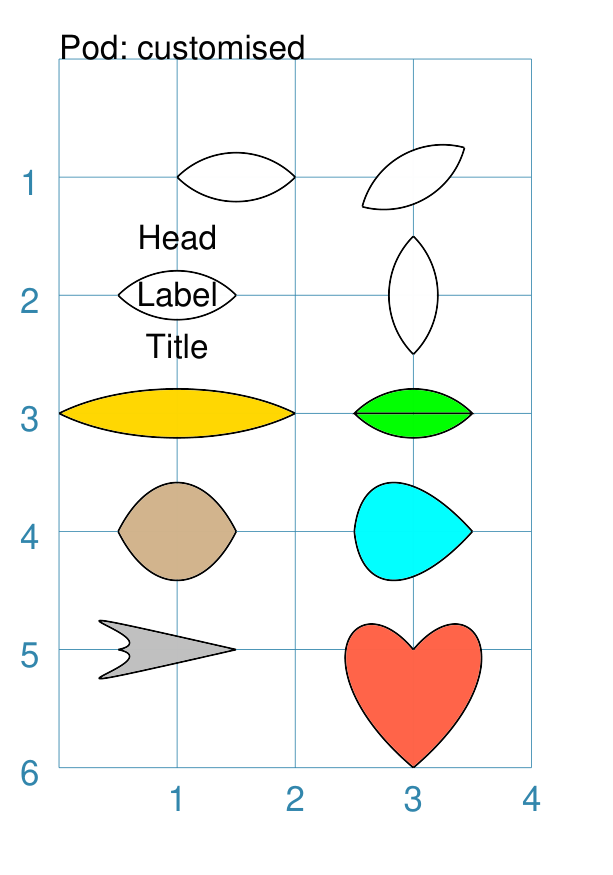
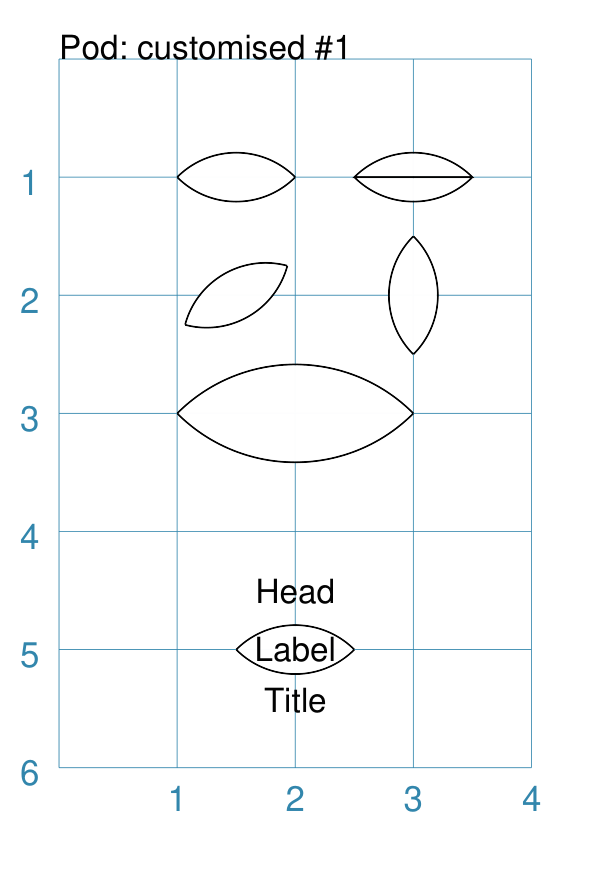
Docs for Pod shape

diff --git a/examples/core/customised_shapes.py b/examples/core/customised_shapes.py
@@ -1309,37 +1309,45 @@ Triangle(
 )
 PageBreak()
 
-
+# ---- pod: custom 1
 Blueprint()
-Text(common=txt, text="Pod: customised")
+Text(common=txt, text="Pod: customised #1")
 Pod()
-Pod(x=2.5, y=1, rotation=30)
-Pod(cx=3, cy=3,
-    fill="lime",
+Pod(cx=3, cy=1,
     center_line=True)
-Pod(cx=1, cy=2,
+Pod(x=1, y=2, rotation=30)
+Pod(cx=3, cy=2, rotation=90)
+Pod(cx=2, cy=3,
+    length=2)
+Pod(cx=2, cy=5,
     heading="Head",
     title="Title",
     label="Label")
-Pod(cx=3, cy=2,
-    rotation=90)
-Pod(cx=1, cy=3,
+PageBreak()
+
+# ---- pod: custom 2
+Blueprint()
+Text(common=txt, text="Pod: customised #2")
+Pod(cx=2, cy=1,
     length=2,
-    fill="gold")
-Pod(cx=1, cy=4,
+    center_line=True,
+    fill="gold",
+    stroke="red",
+    stroke_width=1)
+Pod(cx=1, cy=3,
     dy1=1,
     fill="tan")
-Pod(cx=3, cy=4,
+Pod(cx=3, cy=3,
     dy1=1, dx1=0.1,
     fill="aqua")
-Pod(cx=1, cy=5,
+Pod(cx=1, cy=4.5,
     dy1=0.1,
     dy2=0.5, dx2=-1.2,
     fill="silver")
-Pod(cx=3, cy=5.5,
+Pod(cx=3, cy=4.5,
     dx1=-0.6, dy1=-0.5,
     dx2=0.15, dy2=-1,
-    fill="tomato",
+    fill_stroke="tomato",
     rotation=-90)
 PageBreak()
 
@@ -1393,4 +1401,5 @@ Save(
         "radii_shapes",
         "perbii_shapes",
         "pod_custom",
+        "pod_customised",
         None])

diff --git a/protograf/shapes.py b/protograf/shapes.py
@@ -868,7 +868,7 @@ class PodShape(BaseShape):
         if not self.dx_1:
             self.dx_1 = self.length / 2.0
         if not self.dy_1:
-            self.dy_1 = 0.5
+            self.dy_1 = self.length / 2.0
         # ---- RESET UNIT PROPS (last!)
         self.set_unit_properties()
 

diff --git a/docs/source/core_shapes.rst b/docs/source/core_shapes.rst
@@ -74,9 +74,10 @@ Where possible, the basic examples first show how a shape would appear
 on a page when **only** the default properties are used. This means that,
 for most cases, that *lines* are drawn in **black** and shapes that have an
 enclosed area are *filled* with a **white** color. The default length, width
-or height in most cases is **1cm**. The only change from default, for these
+or height in most cases is **1 cm**. The main change from default, for these
 examples, has been to make the default line width (*stroke_width*) thicker
-for easier viewing of the small PNG images.
+for easier viewing of the small PNG images that have been generated from the
+original PDF output.
 
 Most shapes can be styled by setting one or more of the
 `Shapes Common Properties`_. Other shapes have additional properties
@@ -84,10 +85,8 @@ available that allow even further styling.
 
 To make it easier to see where and how a shape has been drawn, most of these
 examples have been created with a background grid, which **protograf**
-refers to as a `Blueprint`_ shape, added to the page  - a small A8
-"business card" size - for cross-reference. In addition, the default line width
-(aka *stroke_width*) has been made thicker for easier viewing of the small
-PNG images that were generated from the original PDF output.
+refers to as a `Blueprint`_ shape, added to the page |dash| a small A8
+"business card" size |dash| for cross-reference.
 
 .. NOTE::
 
@@ -1240,9 +1239,38 @@ Pod
 ~~~
 `↑ <shape-index_>`_
 
-A pod is a symmetrical shape constructed of two curved lines.
+A pod is a symmetrical shape constructed from two matching curved lines,
+each drawn on either side of a straight centre line.
 
-The following examples show how a Pod can be constructed.
+The shape of each curve is controlled by setting *d* prefixed values for two
+pairs of *control points*.  If only the first control point is set, then a
+simple curve is created; but if both control points are set, then a *Bezier*
+line is constructed.
+
+.. HINT::
+
+    It is not always obvious how exactly to construct a *Bezier* curve,
+    so some experimentation may be needed to get the desired result!
+
+Pod Properties
+++++++++++++++
+
+Apart from the common drawing properties shared with other shapes, a ``Pod``
+has these available:
+
+- *length* - the length of the centre line; by default this is ``1``
+- *centre_line* - if set to ``True`` then the centre line will be displayed
+- *dx1* and *dy1* - respectively the horizontal and vertical distance away
+  from the start of the centre line for the first control point i.e. these
+  are **relative** distances and not **absolute** points. By default, they
+  are set to be equal to half the length of the centre line.
+- *dx2* and *dy2* - respectively the horizontal and vertical distance away
+  from the start of the centre line for the second control point i.e. these
+  are **relative** distances and not **absolute** point values. By default,
+  they are not set to any value.
+
+
+The following examples shows different ways how a Pod can be constructed.
 
 
 Example 1. Default Pod
@@ -1262,8 +1290,9 @@ Example 1. Default Pod
 
       It has the following properties based on the defaults:
 
-      - left point is at x-position ``1`` cm and at y-position ``1`` cm
-      - a *length* of ``1`` cm
+      - the left point of the line running through the centre of the pod
+        is at x-position ``1`` cm and at y-position ``1`` cm
+      - the *length* of the pod defaults to ``1`` cm
 
 ===== ======
 
@@ -1281,34 +1310,85 @@ Example 2. Customised Pod
       .. code:: python
 
         Pod()
-        Pod(x=2.5, y=1, rotation=30)
-        Pod(cx=3, cy=3,
-            fill="lime",
+        Pod(cx=3, cy=1,
             center_line=True)
-        Pod(cx=1, cy=2,
+        Pod(x=1, y=2, rotation=30)
+        Pod(cx=3, cy=2, rotation=90)
+        Pod(cx=2, cy=3,
+            length=2)
+        Pod(cx=2, cy=5,
             heading="Head",
             title="Title",
             label="Label")
-        Pod(cx=3, cy=2,
-            rotation=90)
-        Pod(cx=1, cy=3,
+
+      The top-left shape is the default.  The top-right shows how using the
+      *centre_line* property enables a line to be drawn from one end of the
+      Pod to the other.
+
+      The smaller middle-left and middle-right shapes show how the Pod can
+      be *rotated* counter-clockwise around its centre |dash| note that centre
+      is calculated the same way regardless of whether the Pod is drawn using
+      *x* and *y* or *cx* and *cy*.
+
+      The large middle shape shows setting the shape's *length*, and how the
+      default size of the curved lines is increased proportionally to it.
+
+      The lower shape shows how the  *heading*, *label* and *title* are set
+      |dash| see `Text Descriptions`_ for more details.
+
+===== ======
+
+
+Example 3. Customised Pods
+++++++++++++++++++++++++++
+`^ <pod-command_>`_
+
+.. |pd3| image:: images/customised/pod_customised.png
+   :width: 330
+
+===== ======
+|pd3| This example shows pod shapes constructed using the command with the
+      following properties:
+
+      .. code:: python
+
+        Pod(cx=2, cy=1,
             length=2,
-            fill="gold")
-        Pod(cx=1, cy=4,
+            center_line=True,
+            fill="gold",
+            stroke="red",
+            stroke_width=1)
+        Pod(cx=1, cy=3,
             dy1=1,
             fill="tan")
-        Pod(cx=3, cy=4,
+        Pod(cx=3, cy=3,
             dy1=1, dx1=0.1,
             fill="aqua")
-        Pod(cx=1, cy=5,
+        Pod(cx=1, cy=4.5,
             dy1=0.1,
             dy2=0.5, dx2=-1.2,
             fill="silver")
-        Pod(cx=3, cy=5.5,
+        Pod(cx=3, cy=4.5,
             dx1=-0.6, dy1=-0.5,
             dx2=0.15, dy2=-1,
-            fill="tomato",
+            fill_stroke="tomato",
             rotation=-90)
+
+      The top example shows setting of colors and line length for a
+      longer, thicker pod.
+
+      The middle-left example, drawn with a brown fill color, shows how the
+      Pod curve size can be changed by setting the *dy1* property.
+
+      The middle-right example, drawn with a blue fill color, shows how the
+      Pod curve size can be changed by setting the *dy1* and *dx1* properties.
+
+      The lower-left example, drawn with a grey fill color, shows how the
+      Pod's Bezier curves can be set using the  *dy2* and *dx2* properties.
+
+      The lower-right example shows how the Pod Bezier curve can be set
+      using the  *dy2* and *dx2* properties as well as  *dy1* and *dx1*
+      properties in order to create a more recognisable "heart" shape.
 
 ===== ======
 
@@ -3027,7 +3107,7 @@ Example 3. Fixed Size
       - *stroke_width* - set to ``1`` point; the thicker line makes
         the grid clearly visible
       - *stroke* - set to ``gray`` i.e. a lighter color than the default black
-      - *heading*, *label* and *title* - see `Text Descriptions`_
+      - *heading*, *label* and *title* - see `Text Descriptions`_ for details
 
       The grid now has a fixed "rows by columns" size, rather than being
       automatically calculated to fill up the page.
